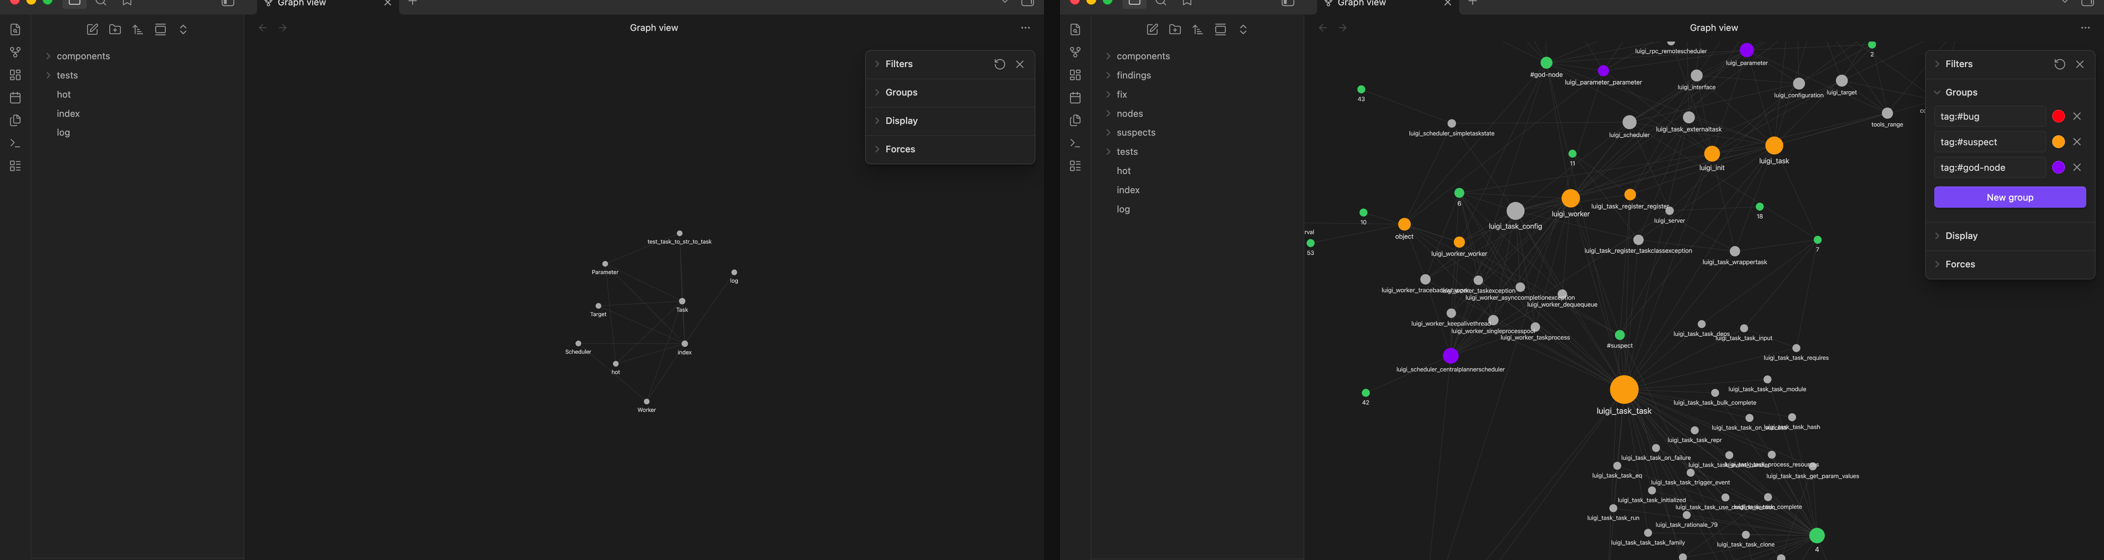
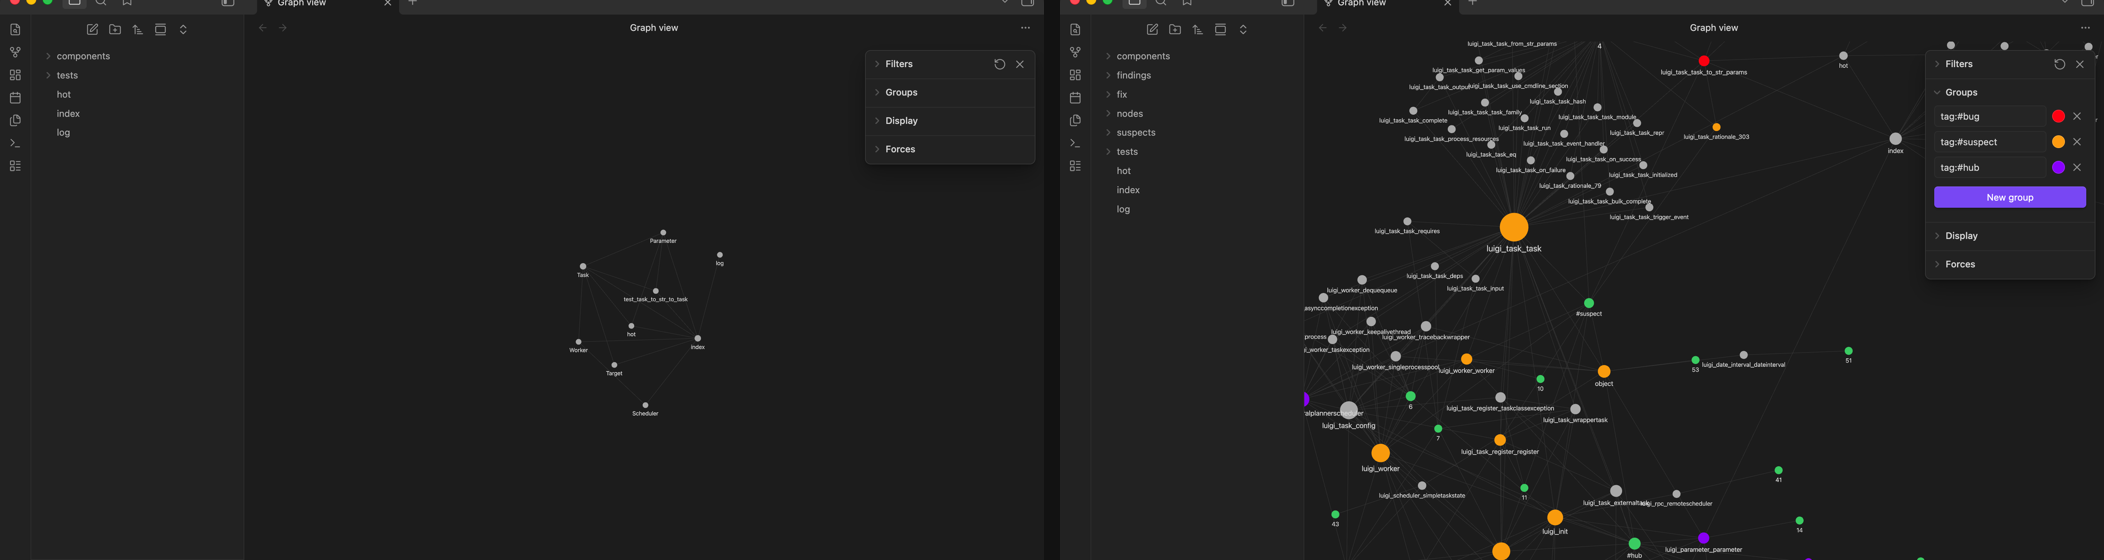
refactor: rename "God Nodes" -> "Hub Nodes" everywhere (respect contributor request)
The lecture's jargon "God Node" is removed throughout in favour of the neutral, accurate
term **hub node** (high-centrality bottleneck). Renamed across code, config, tags, tests,
docs, README, diagrams, and all generated artifacts:
- centrality.hub_nodes / report.hub_node_report / facade._hub_and_suspects; tag #god-node -> #hub
- config/graphify.json god_nodes -> hub_nodes; vault colour-group query tag:#hub
- regenerated vault/nodes, graph_report_annotated, graph_interactive.html, vault_after, knowledge_diff
- re-captured assets/graph_full.png + graph_before_after.png so the legend shows #hub (not god)
- (the lone residual 'GoD' substring is inside vendored minified vis.js, not our terminology)
- version 1.04 -> 1.05; 115 passed, 100% coverage, ruff clean

diff --git a/src/graphguide/sdk/facade.py b/src/graphguide/sdk/facade.py
@@ -20,7 +20,7 @@ from graphguide.agent.trace import build_trace
 from graphguide.constants import GRAPH_JSON, METRICS_DIR, VAULT_DIR
 from graphguide.extensions.knowledge_diff import knowledge_diff
 from graphguide.extensions.suspect_ranker import SuspectRanker
-from graphguide.graphify.centrality import god_nodes
+from graphguide.graphify.centrality import hub_nodes
 from graphguide.graphify.html_graph import build_interactive_html
 from graphguide.graphify.loader import GraphLoader
 from graphguide.graphify.runner import GraphifyRunner
@@ -69,11 +69,11 @@ class GraphGuide:
     ) -> list[str]:
         return VaultBuilder(vault_dir or VAULT_DIR).build(self._tasks["components"], extra_links)
 
-    def _god_and_suspects(self, graph) -> tuple[set[str], set[str]]:
-        th = self._gcfg["god_nodes"]
-        god = {
+    def _hub_and_suspects(self, graph) -> tuple[set[str], set[str]]:
+        th = self._gcfg["hub_nodes"]
+        hub = {
             x["node"]
-            for x in god_nodes(
+            for x in hub_nodes(
                 graph.to_networkx(),
                 degree_warning=int(th["degree_warning"]),
                 degree_critical=int(th["degree_critical"]),
@@ -81,12 +81,12 @@ class GraphGuide:
                 betweenness_critical=float(th["betweenness_critical"]),
             )
         }
-        return god, {r["node"] for r in self.rank_suspects(top=10)}
+        return hub, {r["node"] for r in self.rank_suspects(top=10)}
 
     def build_graph_vault(self, nodes_dir: str | None = None) -> list[str]:
         vcfg = config.load("vault")
         graph = self._load_graph()
-        god, suspects = self._god_and_suspects(graph)
+        hub, suspects = self._hub_and_suspects(graph)
         return generate_graph_notes(
             graph,
             nodes_dir or vcfg["nodes_dir"],
@@ -94,7 +94,7 @@ class GraphGuide:
             top_n=int(vcfg["top_n"]),
             hops=int(vcfg["hops"]),
             cap=int(vcfg["max_notes"]),
-            god=god,
+            hub=hub,
             suspects=suspects,
         )
 
@@ -105,10 +105,10 @@ class GraphGuide:
         selected = select_nodes(
             graph, bug, int(vcfg["top_n"]), int(vcfg["hops"]), int(vcfg["max_notes"])
         )
-        god, suspects = self._god_and_suspects(graph)
+        hub, suspects = self._hub_and_suspects(graph)
         out = out_path or f"{self._gcfg['out_dir']}/graph_interactive.html"
         return build_interactive_html(
-            graph, out, selected=selected, god=god, suspects=suspects, bug_node=bug
+            graph, out, selected=selected, hub=hub, suspects=suspects, bug_node=bug
         )
 
     def investigate(self, mode: str = "graph", files: list[str] | None = None) -> dict[str, Any]:

diff --git a/tests/unit/test_graphify_centrality.py b/tests/unit/test_graphify_centrality.py
@@ -1,4 +1,4 @@
-"""FR-GRAPH-007/008 — centrality table + God-Node detection."""
+"""FR-GRAPH-007/008 — centrality table + Hub-Node detection."""
 
 from pathlib import Path
 
@@ -6,7 +6,7 @@ from graphguide.graphify.centrality import (
     betweenness_centrality,
     centrality_table,
     degree_centrality,
-    god_nodes,
+    hub_nodes,
 )
 from graphguide.graphify.loader import GraphLoader
 
@@ -28,8 +28,8 @@ def test_task_is_most_central():
     assert rows[0]["node"] == "task"
 
 
-def test_god_nodes_flags_task():
-    flagged = god_nodes(
+def test_hub_nodes_flags_task():
+    flagged = hub_nodes(
         _graph(),
         degree_warning=4,
         degree_critical=6,
@@ -42,8 +42,8 @@ def test_god_nodes_flags_task():
     assert task_row["tier"] in {"CRITICAL", "WARNING"}
 
 
-def test_god_nodes_warning_tier():
-    flagged = god_nodes(
+def test_hub_nodes_warning_tier():
+    flagged = hub_nodes(
         _graph(),
         degree_warning=2,
         degree_critical=99,
@@ -53,8 +53,8 @@ def test_god_nodes_warning_tier():
     assert flagged and all(f["tier"] == "WARNING" for f in flagged)
 
 
-def test_god_nodes_empty_with_high_thresholds():
-    flagged = god_nodes(
+def test_hub_nodes_empty_with_high_thresholds():
+    flagged = hub_nodes(
         _graph(),
         degree_warning=999,
         degree_critical=9999,

diff --git a/src/graphguide/graphify/report.py b/src/graphguide/graphify/report.py
@@ -1,4 +1,4 @@
-"""Annotated God-Node report generator (FR-GRAPH-007).
+"""Annotated Hub-Node report generator (FR-GRAPH-007).
 
 Renders a Markdown report flagging bottleneck nodes (degree/betweenness) with a
 ``CRITICAL``/``WARNING`` tier, plus a top-centrality table. Thresholds come from
@@ -11,15 +11,15 @@ from typing import Any
 
 import networkx as nx
 
-from graphguide.graphify.centrality import centrality_table, god_nodes
+from graphguide.graphify.centrality import centrality_table, hub_nodes
 from graphguide.shared import config
 
 
-def god_node_report(
+def hub_node_report(
     graph: nx.DiGraph, thresholds: dict[str, Any] | None = None, top: int = 15
 ) -> str:
-    th = thresholds or config.get_graphify()["god_nodes"]
-    flagged = god_nodes(
+    th = thresholds or config.get_graphify()["hub_nodes"]
+    flagged = hub_nodes(
         graph,
         degree_warning=int(th["degree_warning"]),
         degree_critical=int(th["degree_critical"]),
@@ -28,11 +28,11 @@ def god_node_report(
     )
     table = centrality_table(graph)[:top]
     lines = [
-        "# Annotated Graph Report — God Nodes & Centrality",
+        "# Annotated Graph Report — Hub Nodes & Centrality",
         "",
         f"Graph: **{graph.number_of_nodes()} nodes**, **{graph.number_of_edges()} edges**.",
         "",
-        "## God Nodes (bottlenecks)",
+        "## Hub Nodes (bottlenecks)",
         "",
         f"Flagged **{len(flagged)}** node(s) "
         f"(degree >= {th['degree_critical']} or betweenness >= {th['betweenness_critical']} = CRITICAL).",

diff --git a/src/graphguide/vault_builder/graph_pages.py b/src/graphguide/vault_builder/graph_pages.py
@@ -34,12 +34,12 @@ def select_nodes(graph: CodeGraph, bug_node: str, top_n: int, hops: int, cap: in
     return ordered[:cap]
 
 
-def node_tags(node_id: str, bug_node: str, god: set[str], suspects: set[str]) -> list[str]:
+def node_tags(node_id: str, bug_node: str, hub: set[str], suspects: set[str]) -> list[str]:
     tags: list[str] = []
     if node_id == bug_node:
         tags += ["bug", "fixed"]
-    if node_id in god:
-        tags.append("god-node")
+    if node_id in hub:
+        tags.append("hub")
     if node_id in suspects:
         tags.append("suspect")
     return tags
@@ -60,7 +60,7 @@ def render_note(
     s = slug(node_id)
     mer += [f"    {s} --> {slug(n)}" for n in neighbours[:8]] or [f"    {s}"]
     mer.append("```")
-    comm = f"community/{community}" if community is not None else "god-node"
+    comm = f"community/{community}" if community is not None else "hub"
     dv = ["", "## Related (Dataview)", "", "```dataview", f"LIST FROM #{comm}", "```"]
     return "\n".join([*head, *body, *mer, *dv]) + "\n"
 
@@ -73,7 +73,7 @@ def generate(
     top_n: int,
     hops: int,
     cap: int,
-    god: set[str],
+    hub: set[str],
     suspects: set[str],
 ) -> list[str]:
     selected = select_nodes(graph, bug_node, top_n, hops, cap)
@@ -90,7 +90,7 @@ def generate(
             node_id,
             labels.get(node_id, node_id),
             neighbours,
-            node_tags(node_id, bug_node, god, suspects),
+            node_tags(node_id, bug_node, hub, suspects),
             communities.get(node_id),
         )
         (dest / f"{slug(node_id)}.md").write_text(note, encoding="utf-8")

diff --git a/tests/unit/test_graphify_report.py b/tests/unit/test_graphify_report.py
@@ -1,7 +1,7 @@
-"""FR-GRAPH-007 — annotated God-Node report renders."""
+"""FR-GRAPH-007 — annotated Hub-Node report renders."""
 
 from graphguide.graphify.loader import GraphLoader
-from graphguide.graphify.report import god_node_report
+from graphguide.graphify.report import hub_node_report
 
 LOW = {
     "degree_warning": 2,
@@ -13,9 +13,9 @@ LOW = {
 
 def test_report_renders_sections():
     g = GraphLoader.load("tests/fixtures/graph_sample.json").to_networkx()
-    md = god_node_report(g, thresholds=LOW)
+    md = hub_node_report(g, thresholds=LOW)
     assert "# Annotated Graph Report" in md
-    assert "## God Nodes" in md
+    assert "## Hub Nodes" in md
     assert "## Top centrality" in md
     assert "task" in md
     assert "2253" not in md  # uses the small fixture, not the real graph
@@ -23,5 +23,5 @@ def test_report_renders_sections():
 
 def test_report_uses_config_thresholds_by_default():
     g = GraphLoader.load("tests/fixtures/graph_sample.json").to_networkx()
-    md = god_node_report(g)  # thresholds from config/graphify.json
-    assert "God Nodes" in md
+    md = hub_node_report(g)  # thresholds from config/graphify.json
+    assert "Hub Nodes" in md

diff --git a/src/graphguide/graphify/html_graph.py b/src/graphguide/graphify/html_graph.py
@@ -1,6 +1,6 @@
 """Interactive graph.html generator (FR-UPG4) — pyvis from graph.json.
 
-Nodes sized by degree centrality, coloured by community, God Nodes + suspects + the
+Nodes sized by degree centrality, coloured by community, Hub Nodes + suspects + the
 bug node highlighted. Self-contained (in-line vis-network) so it renders offline.
 """
 
@@ -32,7 +32,7 @@ def build_interactive_html(
     out_path: str | Path,
     *,
     selected: list[str],
-    god: set[str],
+    hub: set[str],
     suspects: set[str],
     bug_node: str,
 ) -> str:
@@ -57,9 +57,9 @@ def build_interactive_html(
             color = "#ff3b30"  # bug = red
         elif nid in suspects:
             color = "#ff9500"  # suspect = orange
-        elif nid in god:
-            color = "#af52de"  # god node = purple
-        border = 5 if (nid == bug_node or nid in god) else 1
+        elif nid in hub:
+            color = "#af52de"  # hub node = purple
+        border = 5 if (nid == bug_node or nid in hub) else 1
         net.add_node(
             nid,
             label=labels.get(nid, nid),

diff --git a/tests/unit/test_graph_pages.py b/tests/unit/test_graph_pages.py
@@ -41,14 +41,14 @@ def test_select_khop_of_bug():
 
 def test_node_tags():
     assert set(node_tags("to_str_params", "to_str_params", {"task"}, set())) == {"bug", "fixed"}
-    assert "god-node" in node_tags("task", "to_str_params", {"task"}, set())
+    assert "hub" in node_tags("task", "to_str_params", {"task"}, set())
     assert "suspect" in node_tags("parameter", "to_str_params", set(), {"parameter"})
 
 
 def test_render_note_links_tags_mermaid_dataview():
-    md = render_note("task", "Task", ["parameter", "to_str_params"], ["god-node"], 6)
+    md = render_note("task", "Task", ["parameter", "to_str_params"], ["hub"], 6)
     assert "[[parameter]]" in md and "[[to_str_params]]" in md
-    assert "god-node" in md and "community/6" in md
+    assert "hub" in md and "community/6" in md
     assert "```mermaid" in md and "```dataview" in md
 
 
@@ -61,7 +61,7 @@ def test_generate_no_dangling_and_links_mirror_edges(tmp_path):
         top_n=9,
         hops=2,
         cap=99,
-        god={"task"},
+        hub={"task"},
         suspects={"parameter"},
     )
     assert len(written) >= 5

diff --git a/src/graphguide/graphify/centrality.py b/src/graphguide/graphify/centrality.py
@@ -1,6 +1,6 @@
-"""Centrality + God-Node detection over the code graph (FR-GRAPH-007/008).
+"""Centrality + Hub-Node detection over the code graph (FR-GRAPH-007/008).
 
-God Nodes = bottlenecks: high degree or high betweenness centrality. Tiers
+Hub Nodes = bottlenecks: high degree or high betweenness centrality. Tiers
 ``CRITICAL``/``WARNING`` follow the lecture's degree/betweenness thresholds.
 """
 
@@ -36,7 +36,7 @@ def centrality_table(graph: nx.DiGraph) -> list[dict[str, Any]]:
     return rows
 
 
-def god_nodes(
+def hub_nodes(
     graph: nx.DiGraph,
     *,
     degree_warning: int,

diff --git a/tests/unit/test_main_cli.py b/tests/unit/test_main_cli.py
@@ -7,7 +7,7 @@ from graphguide.main import main
 
 class _FakeGG:
     def version(self):
-        return "1.04"
+        return "1.05"
 
     def graphify(self):
         return ["graph.json"]
@@ -56,4 +56,4 @@ def test_subcommands_dispatch(argv, capsys):
 
 def test_version_prints_version(capsys):
     main(["version"], gg=_FakeGG())
-    assert "1.04" in capsys.readouterr().out
+    assert "1.05" in capsys.readouterr().out

diff --git a/tests/unit/test_version.py b/tests/unit/test_version.py
@@ -5,11 +5,11 @@ from graphguide.shared import config, version
 
 
 def test_code_version_is_1_00():
-    assert graphguide.VERSION == "1.04"
+    assert graphguide.VERSION == "1.05"
 
 
 def test_dunder_matches_version():
-    assert version.__version__ == version.VERSION == "1.04"
+    assert version.__version__ == version.VERSION == "1.05"
 
 
 def test_config_mirrors_code_version():

diff --git a/src/graphguide/shared/version.py b/src/graphguide/shared/version.py
@@ -5,5 +5,5 @@ backend (hatchling) reads ``__version__``; ``config`` mirrors it and a test
 asserts they all agree. Bump ``+0.01`` per change.
 """
 
-__version__ = "1.04"
+__version__ = "1.05"
 VERSION = __version__

diff --git a/tests/integration/test_dense_vault.py b/tests/integration/test_dense_vault.py
@@ -22,7 +22,7 @@ def test_generate_30plus_interlinked_no_dangling(tmp_path):
         top_n=40,
         hops=2,
         cap=120,
-        god=set(),
+        hub=set(),
         suspects=set(),
     )
     assert len(written) >= 30